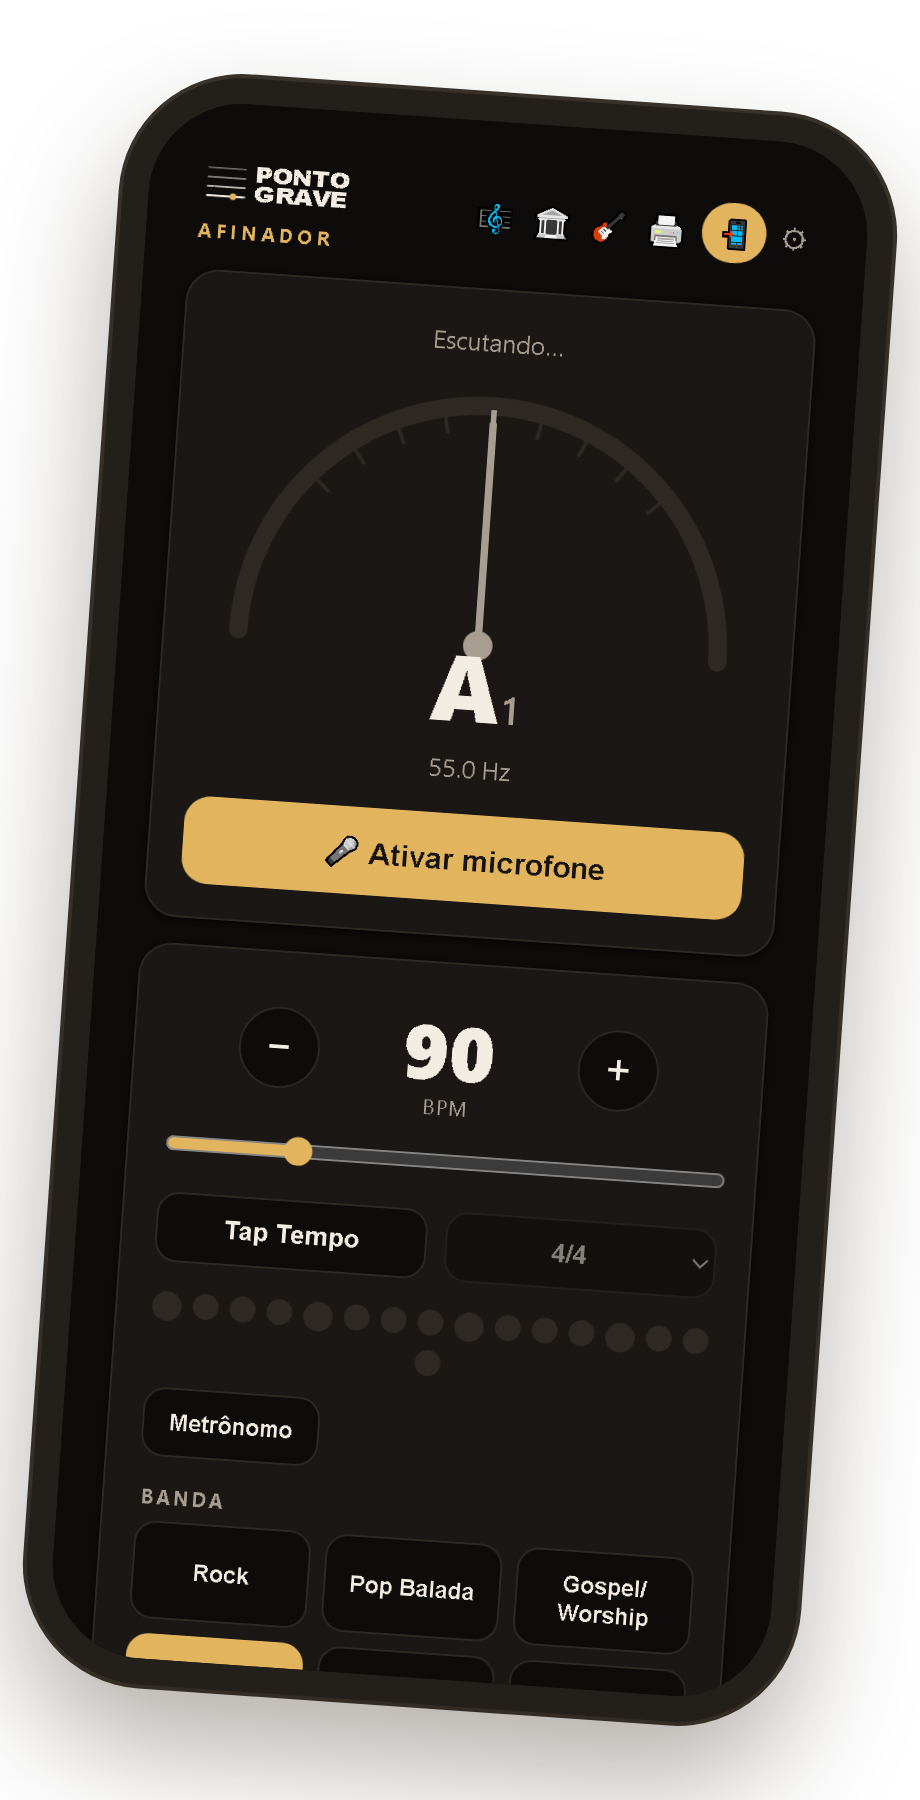
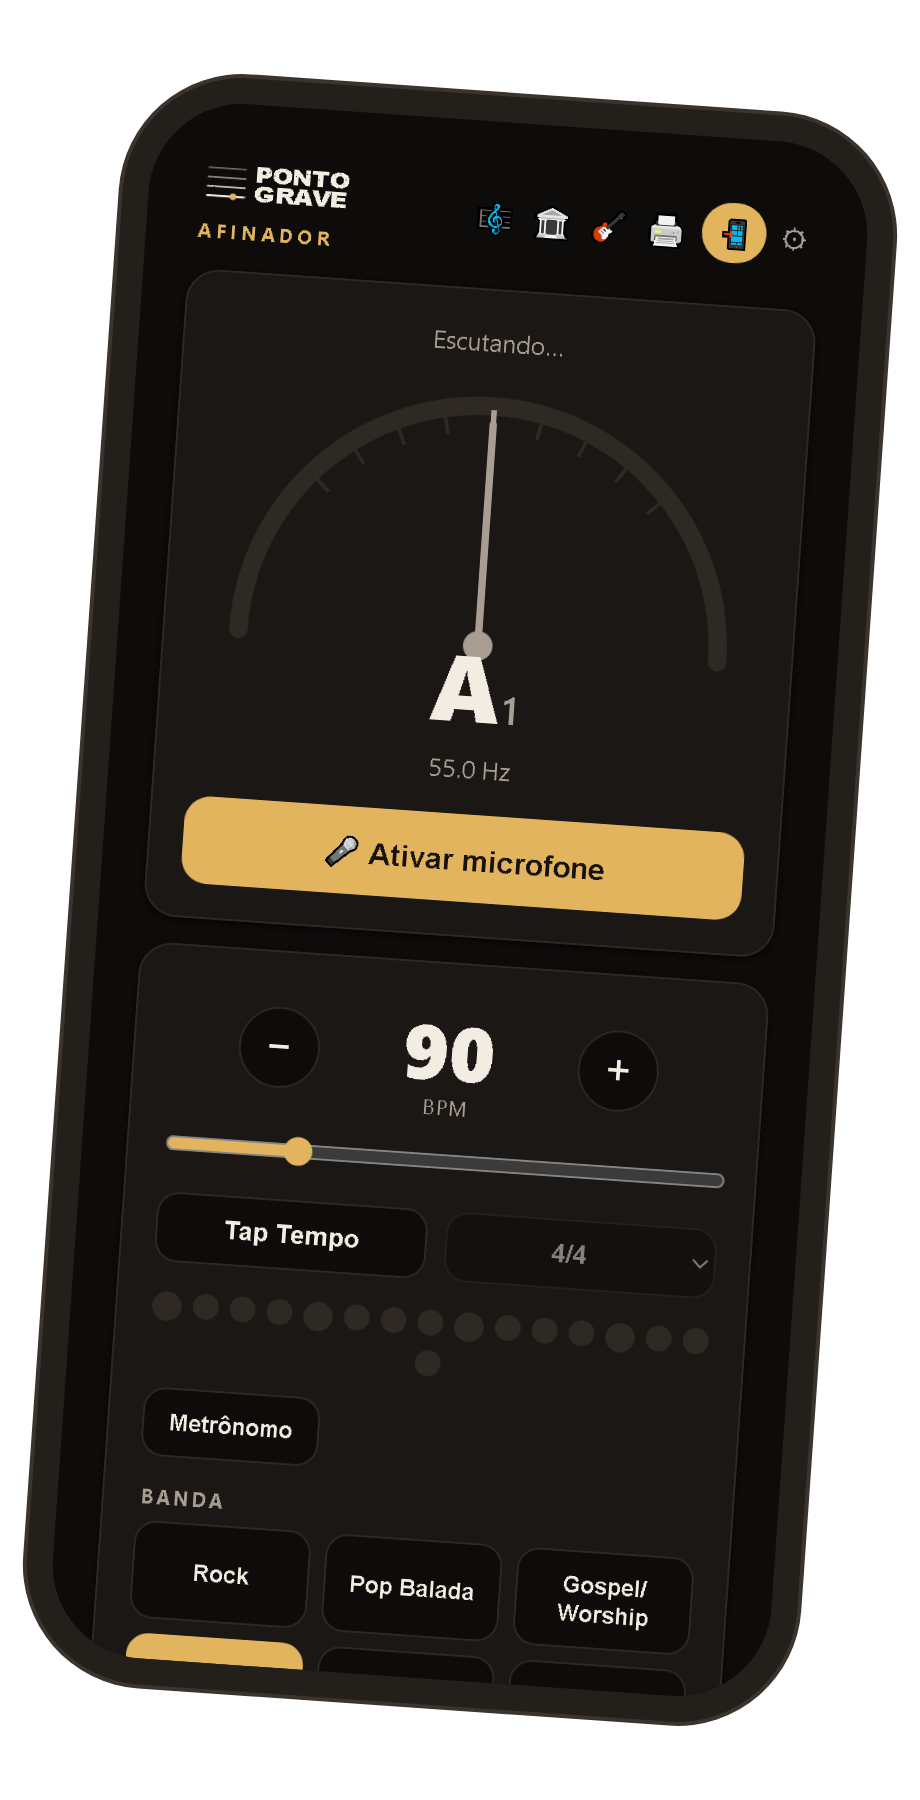
Celular do app sem sombra recortada (sombra via CSS)

Changed region(s): [[0.0, 0.0933, 1.0, 1.0]]

diff --git a/index.html b/index.html
@@ -12,7 +12,7 @@
 <link rel="icon" href="/assets/icones/icon.svg" type="image/svg+xml"><link rel="apple-touch-icon" href="/assets/icones/icon-180.png">
 <link rel="preconnect" href="https://fonts.googleapis.com"><link rel="preconnect" href="https://fonts.gstatic.com" crossorigin>
 <link rel="stylesheet" href="https://fonts.googleapis.com/css2?family=Archivo+Black&family=Archivo:wght@400;500;600;700&family=JetBrains+Mono&display=swap">
-<link rel="stylesheet" href="/assets/css/site.css?v=b0da2894">
+<link rel="stylesheet" href="/assets/css/site.css?v=1f45166e">
 
 </head>
 <body class="tema-claro">
@@ -88,7 +88,7 @@
   <div class="txt"><span class="rot">Equipamento</span><h3>Precision ou Jazz Bass? As diferenças que você ouve e sente</h3><p>Os dois baixos mais copiados da história. Captadores, braço, controles e som: o que muda de um para o outro e qual combina com o seu estilo.</p><span class="meta">12 de outubro de 2026 · 2 min de leitura</span></div></a></div>
 </div></section>
 <section class="secao" style="padding-top:0"><div class="wrap revelar app-bloco">
-  <a class="app-celular" href="https://afinador.pontograve.com.br/" aria-label="Abrir o app Afinador Ponto Grave"><img src="/assets/img/app-celular.png" alt="Tela do app Afinador Ponto Grave no celular: afinador e metrônomo" width="350" height="681" loading="lazy"></a>
+  <a class="app-celular" href="https://afinador.pontograve.com.br/" aria-label="Abrir o app Afinador Ponto Grave"><img src="/assets/img/app-celular.png" alt="Tela do app Afinador Ponto Grave no celular: afinador e metrônomo" width="320" height="640" loading="lazy"></a>
   <div><span class="rot">App grátis</span><h2 style="font-size:clamp(30px,4vw,52px);margin:12px 0">Afinador Ponto Grave</h2><p class="sub" style="margin:0 0 22px">Afinador para contrabaixo, metrônomo com 16 ritmos, escalas e pentatônicas. Funciona no celular, sem internet.</p><a class="btn btn-linha" href="https://afinador.pontograve.com.br/">Abrir o app <span class="seta">→</span></a></div>
 </div></section>
 </main>
@@ -102,6 +102,6 @@
   </div>
   <div class="base"><span>© 2026 Ponto Grave. Todos os direitos reservados. Som de baixo do braço interativo: FluidR3 GM (Frank Wen), licença <a href="https://creativecommons.org/licenses/by/3.0/">CC BY 3.0</a>.</span><span>pontograve.com.br</span></div>
 </div></footer>
-<script src="/assets/js/site.js?v=b0da2894" defer></script>
+<script src="/assets/js/site.js?v=1f45166e" defer></script>
 </body>
 </html>

diff --git a/blog/so-toco-a-tonica/index.html b/blog/so-toco-a-tonica/index.html
@@ -12,7 +12,7 @@
 <link rel="icon" href="/assets/icones/icon.svg" type="image/svg+xml"><link rel="apple-touch-icon" href="/assets/icones/icon-180.png">
 <link rel="preconnect" href="https://fonts.googleapis.com"><link rel="preconnect" href="https://fonts.gstatic.com" crossorigin>
 <link rel="stylesheet" href="https://fonts.googleapis.com/css2?family=Archivo+Black&family=Archivo:wght@400;500;600;700&family=JetBrains+Mono&display=swap">
-<link rel="stylesheet" href="/assets/css/site.css?v=b0da2894">
+<link rel="stylesheet" href="/assets/css/site.css?v=1f45166e">
 <script type="application/ld+json">{"@context":"https://schema.org","@type":"BlogPosting","headline":"\"Só consigo tocar a tônica\": como dar vida à sua linha de baixo","description":"A tônica é segura, por isso a mão volta sempre para ela. A saída é simples: tônica no tempo 1, pentatônica no resto. Com tablatura e exercício para hoje.","datePublished":"2026-10-08","image":"https://pontograve.com.br/assets/img/blog-tonica.jpg","author":{"@type":"Organization","name":"Ponto Grave"},"publisher":{"@type":"Organization","name":"Ponto Grave"}}</script>
 </head>
 <body class="tema-claro">
@@ -88,6 +88,6 @@ E|-5-----------------------|
   </div>
   <div class="base"><span>© 2026 Ponto Grave. Todos os direitos reservados. Som de baixo do braço interativo: FluidR3 GM (Frank Wen), licença <a href="https://creativecommons.org/licenses/by/3.0/">CC BY 3.0</a>.</span><span>pontograve.com.br</span></div>
 </div></footer>
-<script src="/assets/js/site.js?v=b0da2894" defer></script>
+<script src="/assets/js/site.js?v=1f45166e" defer></script>
 </body>
 </html>

diff --git a/blog/pentatonica-no-baixo-guia/index.html b/blog/pentatonica-no-baixo-guia/index.html
@@ -12,7 +12,7 @@
 <link rel="icon" href="/assets/icones/icon.svg" type="image/svg+xml"><link rel="apple-touch-icon" href="/assets/icones/icon-180.png">
 <link rel="preconnect" href="https://fonts.googleapis.com"><link rel="preconnect" href="https://fonts.gstatic.com" crossorigin>
 <link rel="stylesheet" href="https://fonts.googleapis.com/css2?family=Archivo+Black&family=Archivo:wght@400;500;600;700&family=JetBrains+Mono&display=swap">
-<link rel="stylesheet" href="/assets/css/site.css?v=b0da2894">
+<link rel="stylesheet" href="/assets/css/site.css?v=1f45166e">
 <script type="application/ld+json">{"@context":"https://schema.org","@type":"BlogPosting","headline":"Pentatônica no baixo: o guia para começar (com os 5 desenhos)","description":"As cinco notas que estão no blues, no rock, no funk e no louvor. Onde ficam no braço, como os 5 desenhos se encaixam e um roteiro de 7 dias para tocar sem olhar.","datePublished":"2026-10-05","image":"https://pontograve.com.br/assets/img/blog-mapa-pentatonica.jpg","author":{"@type":"Organization","name":"Ponto Grave"},"publisher":{"@type":"Organization","name":"Ponto Grave"}}</script>
 </head>
 <body class="tema-claro">
@@ -90,6 +90,6 @@ E|-5--8------------|
   </div>
   <div class="base"><span>© 2026 Ponto Grave. Todos os direitos reservados. Som de baixo do braço interativo: FluidR3 GM (Frank Wen), licença <a href="https://creativecommons.org/licenses/by/3.0/">CC BY 3.0</a>.</span><span>pontograve.com.br</span></div>
 </div></footer>
-<script src="/assets/js/site.js?v=b0da2894" defer></script>
+<script src="/assets/js/site.js?v=1f45166e" defer></script>
 </body>
 </html>

diff --git a/blog/james-jamerson/index.html b/blog/james-jamerson/index.html
@@ -12,7 +12,7 @@
 <link rel="icon" href="/assets/icones/icon.svg" type="image/svg+xml"><link rel="apple-touch-icon" href="/assets/icones/icon-180.png">
 <link rel="preconnect" href="https://fonts.googleapis.com"><link rel="preconnect" href="https://fonts.gstatic.com" crossorigin>
 <link rel="stylesheet" href="https://fonts.googleapis.com/css2?family=Archivo+Black&family=Archivo:wght@400;500;600;700&family=JetBrains+Mono&display=swap">
-<link rel="stylesheet" href="/assets/css/site.css?v=b0da2894">
+<link rel="stylesheet" href="/assets/css/site.css?v=1f45166e">
 <script type="application/ld+json">{"@context":"https://schema.org","@type":"BlogPosting","headline":"James Jamerson, o baixo que você já ouviu sem saber o nome","description":"Ele quase nunca aparecia nas capas, mas gravou dezenas de sucessos da Motown. Como as linhas dele cantam junto com a voz, e o que todo baixista pode aprender com elas.","datePublished":"2026-10-19","image":"https://pontograve.com.br/assets/img/blog-jamerson.jpg","author":{"@type":"Organization","name":"Ponto Grave"},"publisher":{"@type":"Organization","name":"Ponto Grave"}}</script>
 </head>
 <body class="tema-claro">
@@ -70,6 +70,6 @@
   </div>
   <div class="base"><span>© 2026 Ponto Grave. Todos os direitos reservados. Som de baixo do braço interativo: FluidR3 GM (Frank Wen), licença <a href="https://creativecommons.org/licenses/by/3.0/">CC BY 3.0</a>.</span><span>pontograve.com.br</span></div>
 </div></footer>
-<script src="/assets/js/site.js?v=b0da2894" defer></script>
+<script src="/assets/js/site.js?v=1f45166e" defer></script>
 </body>
 </html>

diff --git a/blog/flatwound-ou-roundwound/index.html b/blog/flatwound-ou-roundwound/index.html
@@ -12,7 +12,7 @@
 <link rel="icon" href="/assets/icones/icon.svg" type="image/svg+xml"><link rel="apple-touch-icon" href="/assets/icones/icon-180.png">
 <link rel="preconnect" href="https://fonts.googleapis.com"><link rel="preconnect" href="https://fonts.gstatic.com" crossorigin>
 <link rel="stylesheet" href="https://fonts.googleapis.com/css2?family=Archivo+Black&family=Archivo:wght@400;500;600;700&family=JetBrains+Mono&display=swap">
-<link rel="stylesheet" href="/assets/css/site.css?v=b0da2894">
+<link rel="stylesheet" href="/assets/css/site.css?v=1f45166e">
 <script type="application/ld+json">{"@context":"https://schema.org","@type":"BlogPosting","headline":"Flatwound ou roundwound? A corda muda o som tanto quanto o baixo","description":"Cordas lisas para o som redondo e vintage, cordas espiraladas para o brilho moderno. Como cada uma soa, para que estilo serve e como escolher a sua.","datePublished":"2026-10-15","image":"https://pontograve.com.br/assets/img/blog-cordas.jpg","author":{"@type":"Organization","name":"Ponto Grave"},"publisher":{"@type":"Organization","name":"Ponto Grave"}}</script>
 </head>
 <body class="tema-claro">
@@ -89,6 +89,6 @@
   </div>
   <div class="base"><span>© 2026 Ponto Grave. Todos os direitos reservados. Som de baixo do braço interativo: FluidR3 GM (Frank Wen), licença <a href="https://creativecommons.org/licenses/by/3.0/">CC BY 3.0</a>.</span><span>pontograve.com.br</span></div>
 </div></footer>
-<script src="/assets/js/site.js?v=b0da2894" defer></script>
+<script src="/assets/js/site.js?v=1f45166e" defer></script>
 </body>
 </html>

diff --git a/blog/precision-ou-jazz-bass/index.html b/blog/precision-ou-jazz-bass/index.html
@@ -12,7 +12,7 @@
 <link rel="icon" href="/assets/icones/icon.svg" type="image/svg+xml"><link rel="apple-touch-icon" href="/assets/icones/icon-180.png">
 <link rel="preconnect" href="https://fonts.googleapis.com"><link rel="preconnect" href="https://fonts.gstatic.com" crossorigin>
 <link rel="stylesheet" href="https://fonts.googleapis.com/css2?family=Archivo+Black&family=Archivo:wght@400;500;600;700&family=JetBrains+Mono&display=swap">
-<link rel="stylesheet" href="/assets/css/site.css?v=b0da2894">
+<link rel="stylesheet" href="/assets/css/site.css?v=1f45166e">
 <script type="application/ld+json">{"@context":"https://schema.org","@type":"BlogPosting","headline":"Precision ou Jazz Bass? As diferenças que você ouve e sente","description":"Os dois baixos mais copiados da história. Captadores, braço, controles e som: o que muda de um para o outro e qual combina com o seu estilo.","datePublished":"2026-10-12","image":"https://pontograve.com.br/assets/img/blog-precision-jazz.jpg","author":{"@type":"Organization","name":"Ponto Grave"},"publisher":{"@type":"Organization","name":"Ponto Grave"}}</script>
 </head>
 <body class="tema-claro">
@@ -93,6 +93,6 @@
   </div>
   <div class="base"><span>© 2026 Ponto Grave. Todos os direitos reservados. Som de baixo do braço interativo: FluidR3 GM (Frank Wen), licença <a href="https://creativecommons.org/licenses/by/3.0/">CC BY 3.0</a>.</span><span>pontograve.com.br</span></div>
 </div></footer>
-<script src="/assets/js/site.js?v=b0da2894" defer></script>
+<script src="/assets/js/site.js?v=1f45166e" defer></script>
 </body>
 </html>

diff --git a/livros/cinco-notas/index.html b/livros/cinco-notas/index.html
@@ -12,7 +12,7 @@
 <link rel="icon" href="/assets/icones/icon.svg" type="image/svg+xml"><link rel="apple-touch-icon" href="/assets/icones/icon-180.png">
 <link rel="preconnect" href="https://fonts.googleapis.com"><link rel="preconnect" href="https://fonts.gstatic.com" crossorigin>
 <link rel="stylesheet" href="https://fonts.googleapis.com/css2?family=Archivo+Black&family=Archivo:wght@400;500;600;700&family=JetBrains+Mono&display=swap">
-<link rel="stylesheet" href="/assets/css/site.css?v=b0da2894">
+<link rel="stylesheet" href="/assets/css/site.css?v=1f45166e">
 
 </head>
 <body class="tema-escuro">
@@ -77,6 +77,6 @@
   </div>
   <div class="base"><span>© 2026 Ponto Grave. Todos os direitos reservados. Som de baixo do braço interativo: FluidR3 GM (Frank Wen), licença <a href="https://creativecommons.org/licenses/by/3.0/">CC BY 3.0</a>.</span><span>pontograve.com.br</span></div>
 </div></footer>
-<script src="/assets/js/site.js?v=b0da2894" defer></script>
+<script src="/assets/js/site.js?v=1f45166e" defer></script>
 </body>
 </html>

diff --git a/livros/sete-acordes/index.html b/livros/sete-acordes/index.html
@@ -12,7 +12,7 @@
 <link rel="icon" href="/assets/icones/icon.svg" type="image/svg+xml"><link rel="apple-touch-icon" href="/assets/icones/icon-180.png">
 <link rel="preconnect" href="https://fonts.googleapis.com"><link rel="preconnect" href="https://fonts.gstatic.com" crossorigin>
 <link rel="stylesheet" href="https://fonts.googleapis.com/css2?family=Archivo+Black&family=Archivo:wght@400;500;600;700&family=JetBrains+Mono&display=swap">
-<link rel="stylesheet" href="/assets/css/site.css?v=b0da2894">
+<link rel="stylesheet" href="/assets/css/site.css?v=1f45166e">
 
 </head>
 <body class="tema-escuro">
@@ -50,6 +50,6 @@
   </div>
   <div class="base"><span>© 2026 Ponto Grave. Todos os direitos reservados. Som de baixo do braço interativo: FluidR3 GM (Frank Wen), licença <a href="https://creativecommons.org/licenses/by/3.0/">CC BY 3.0</a>.</span><span>pontograve.com.br</span></div>
 </div></footer>
-<script src="/assets/js/site.js?v=b0da2894" defer></script>
+<script src="/assets/js/site.js?v=1f45166e" defer></script>
 </body>
 </html>

diff --git a/livros/sete-modos/index.html b/livros/sete-modos/index.html
@@ -12,7 +12,7 @@
 <link rel="icon" href="/assets/icones/icon.svg" type="image/svg+xml"><link rel="apple-touch-icon" href="/assets/icones/icon-180.png">
 <link rel="preconnect" href="https://fonts.googleapis.com"><link rel="preconnect" href="https://fonts.gstatic.com" crossorigin>
 <link rel="stylesheet" href="https://fonts.googleapis.com/css2?family=Archivo+Black&family=Archivo:wght@400;500;600;700&family=JetBrains+Mono&display=swap">
-<link rel="stylesheet" href="/assets/css/site.css?v=b0da2894">
+<link rel="stylesheet" href="/assets/css/site.css?v=1f45166e">
 
 </head>
 <body class="tema-escuro">
@@ -50,6 +50,6 @@
   </div>
   <div class="base"><span>© 2026 Ponto Grave. Todos os direitos reservados. Som de baixo do braço interativo: FluidR3 GM (Frank Wen), licença <a href="https://creativecommons.org/licenses/by/3.0/">CC BY 3.0</a>.</span><span>pontograve.com.br</span></div>
 </div></footer>
-<script src="/assets/js/site.js?v=b0da2894" defer></script>
+<script src="/assets/js/site.js?v=1f45166e" defer></script>
 </body>
 </html>

diff --git a/404.html b/404.html
@@ -12,7 +12,7 @@
 <link rel="icon" href="/assets/icones/icon.svg" type="image/svg+xml"><link rel="apple-touch-icon" href="/assets/icones/icon-180.png">
 <link rel="preconnect" href="https://fonts.googleapis.com"><link rel="preconnect" href="https://fonts.gstatic.com" crossorigin>
 <link rel="stylesheet" href="https://fonts.googleapis.com/css2?family=Archivo+Black&family=Archivo:wght@400;500;600;700&family=JetBrains+Mono&display=swap">
-<link rel="stylesheet" href="/assets/css/site.css?v=b0da2894">
+<link rel="stylesheet" href="/assets/css/site.css?v=1f45166e">
 
 </head>
 <body class="tema-claro">
@@ -39,6 +39,6 @@
   </div>
   <div class="base"><span>© 2026 Ponto Grave. Todos os direitos reservados. Som de baixo do braço interativo: FluidR3 GM (Frank Wen), licença <a href="https://creativecommons.org/licenses/by/3.0/">CC BY 3.0</a>.</span><span>pontograve.com.br</span></div>
 </div></footer>
-<script src="/assets/js/site.js?v=b0da2894" defer></script>
+<script src="/assets/js/site.js?v=1f45166e" defer></script>
 </body>
 </html>

diff --git a/blog/index.html b/blog/index.html
@@ -12,7 +12,7 @@
 <link rel="icon" href="/assets/icones/icon.svg" type="image/svg+xml"><link rel="apple-touch-icon" href="/assets/icones/icon-180.png">
 <link rel="preconnect" href="https://fonts.googleapis.com"><link rel="preconnect" href="https://fonts.gstatic.com" crossorigin>
 <link rel="stylesheet" href="https://fonts.googleapis.com/css2?family=Archivo+Black&family=Archivo:wght@400;500;600;700&family=JetBrains+Mono&display=swap">
-<link rel="stylesheet" href="/assets/css/site.css?v=b0da2894">
+<link rel="stylesheet" href="/assets/css/site.css?v=1f45166e">
 
 </head>
 <body class="tema-claro">
@@ -57,6 +57,6 @@
   </div>
   <div class="base"><span>© 2026 Ponto Grave. Todos os direitos reservados. Som de baixo do braço interativo: FluidR3 GM (Frank Wen), licença <a href="https://creativecommons.org/licenses/by/3.0/">CC BY 3.0</a>.</span><span>pontograve.com.br</span></div>
 </div></footer>
-<script src="/assets/js/site.js?v=b0da2894" defer></script>
+<script src="/assets/js/site.js?v=1f45166e" defer></script>
 </body>
 </html>

diff --git a/privacidade/index.html b/privacidade/index.html
@@ -12,7 +12,7 @@
 <link rel="icon" href="/assets/icones/icon.svg" type="image/svg+xml"><link rel="apple-touch-icon" href="/assets/icones/icon-180.png">
 <link rel="preconnect" href="https://fonts.googleapis.com"><link rel="preconnect" href="https://fonts.gstatic.com" crossorigin>
 <link rel="stylesheet" href="https://fonts.googleapis.com/css2?family=Archivo+Black&family=Archivo:wght@400;500;600;700&family=JetBrains+Mono&display=swap">
-<link rel="stylesheet" href="/assets/css/site.css?v=b0da2894">
+<link rel="stylesheet" href="/assets/css/site.css?v=1f45166e">
 
 </head>
 <body class="tema-claro">
@@ -78,6 +78,6 @@
   </div>
   <div class="base"><span>© 2026 Ponto Grave. Todos os direitos reservados. Som de baixo do braço interativo: FluidR3 GM (Frank Wen), licença <a href="https://creativecommons.org/licenses/by/3.0/">CC BY 3.0</a>.</span><span>pontograve.com.br</span></div>
 </div></footer>
-<script src="/assets/js/site.js?v=b0da2894" defer></script>
+<script src="/assets/js/site.js?v=1f45166e" defer></script>
 </body>
 </html>
